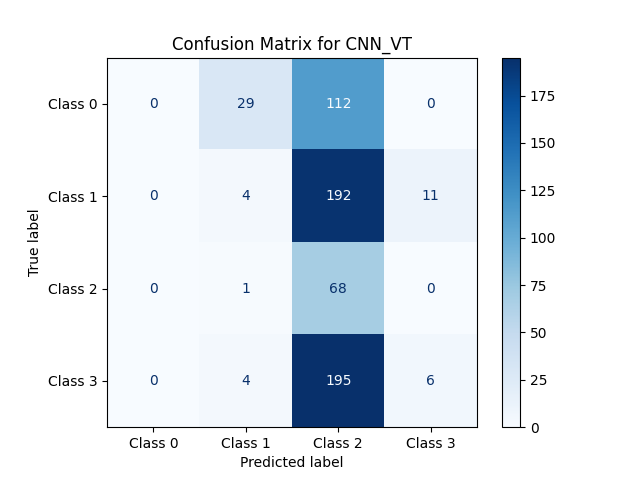
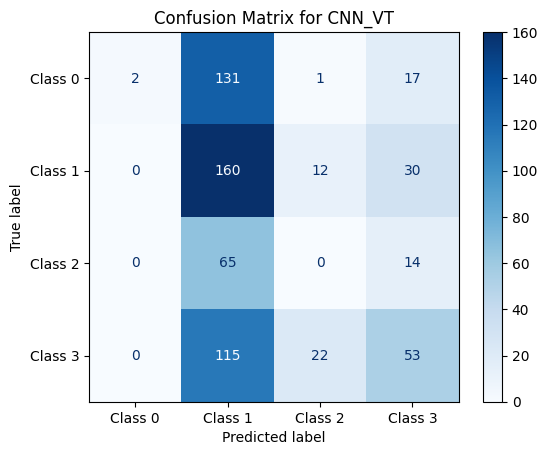
added plots

diff --git a/modules/constants.py b/modules/constants.py
@@ -38,4 +38,4 @@ base_lr = 0.0001
 decay_weight = 0.1 
 epoch_decay = 2 
 b_size = 5
-n_epochs = 1
+n_epochs = 5
